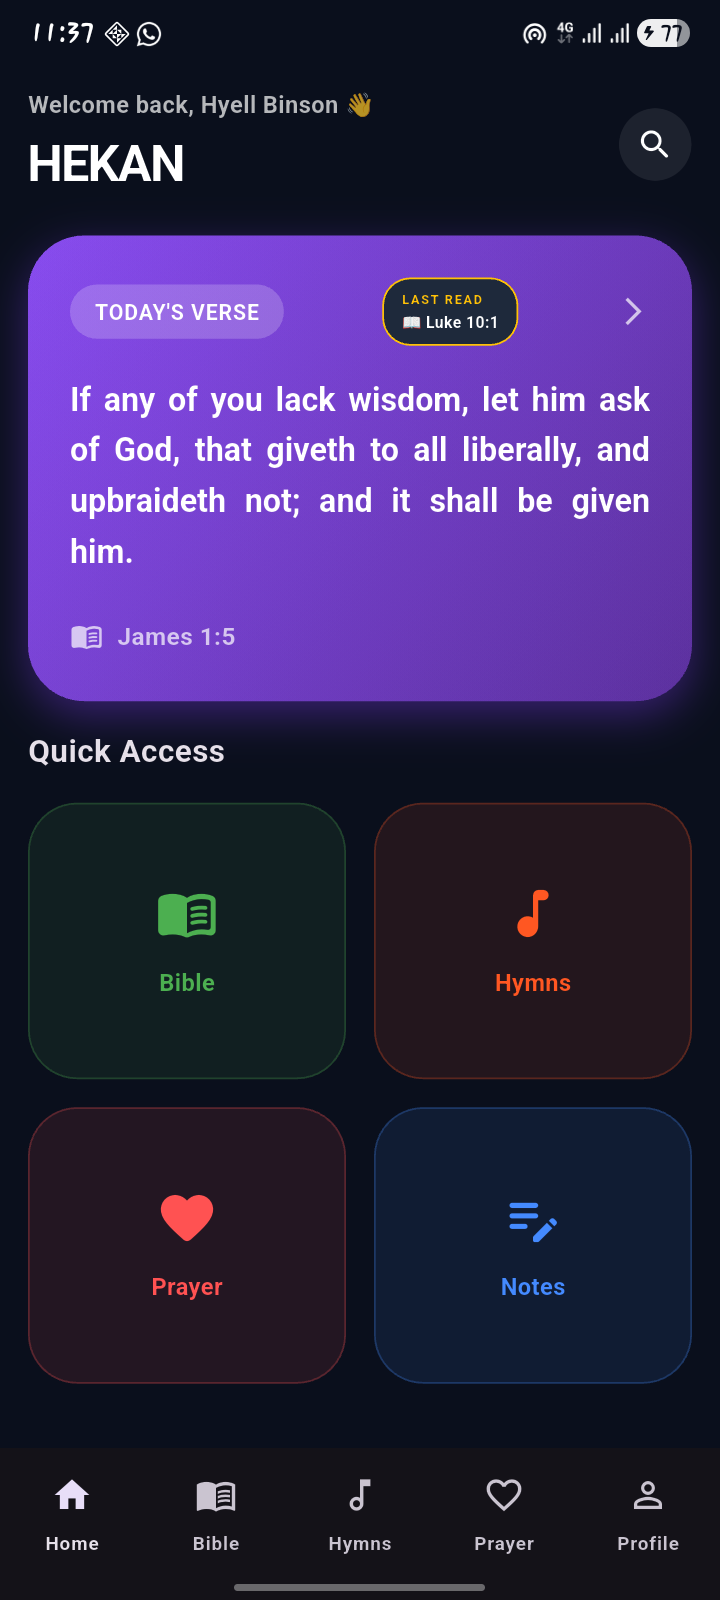
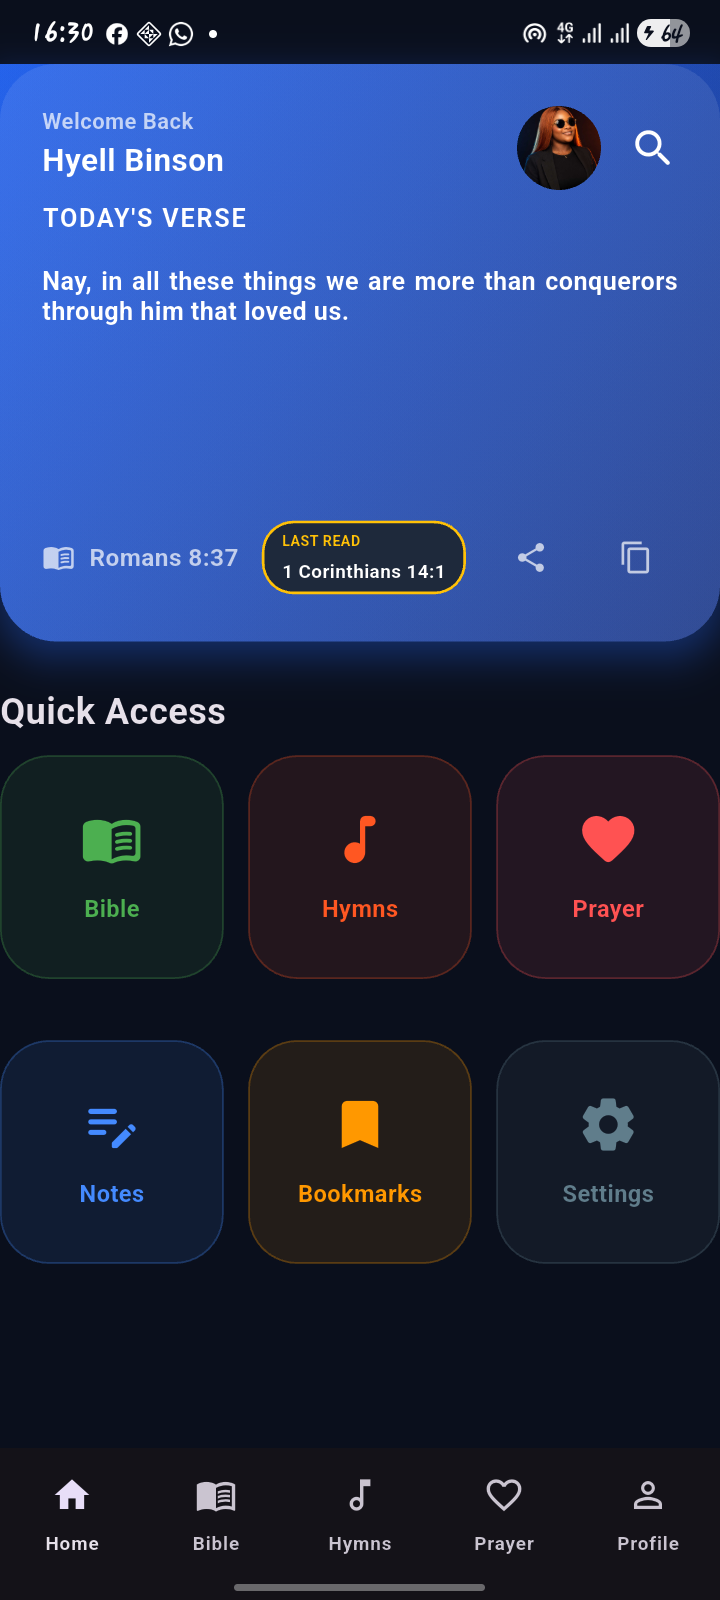
website v1.03

diff --git a/docs/index.html b/docs/index.html
@@ -64,8 +64,8 @@
         </div>
 
         <a class="downloadBtn"
-           href="https://github.com/HyellBinson/HEKAN_BIBLE/releases/download/1.02/HEKAN_BIBLE_v1.02.apk">
-            Download v1.0.2
+           href="https://github.com/HyellBinson/HEKAN_BIBLE/releases/download/1.03/HEKAN_BIBLE_v1.0.3.apk">
+            Download v1.0.3
         </a>
 
     </nav>
@@ -99,9 +99,9 @@
         <div class="buttons">
 
             <a class="primary"
-               href="https://github.com/HyellBinson/HEKAN_BIBLE/releases/download/1.02/HEKAN_BIBLE_v1.02.apk">
+               href="https://github.com/HyellBinson/HEKAN_BIBLE/releases/download/1.03/HEKAN_BIBLE_v1.0.3.apk">
 
-                Download v1.0.2
+                Download v1.0.3
 
             </a>
 
@@ -258,11 +258,11 @@
 
     </p>
 
-    <h3>v1.0.2</h3>
+    <h3>v1.0.3</h3>
 
     <a class="bigDownload"
 
-       href="https://github.com/HyellBinson/HEKAN_BIBLE/releases/download/1.02/HEKAN_BIBLE_v1.02.apk">
+       href="https://github.com/HyellBinson/HEKAN_BIBLE/releases/download/1.03/HEKAN_BIBLE_v1.0.3.apk">
 
         Download APK
 

diff --git a/lib/license_screen.dart b/lib/license_screen.dart
@@ -11,7 +11,7 @@ class LicenseScreen extends StatelessWidget {
 
     return LicensePage(
       applicationName: "HEKAN Bible",
-      applicationVersion: "Version 1.0.0",
+      applicationVersion: "Version 1.0.3",
       applicationLegalese: "© 2026 HEKAN Nigeria\nAll Rights Reserved.",
       applicationIcon: Padding(
         padding: EdgeInsets.all(12 * scale),
